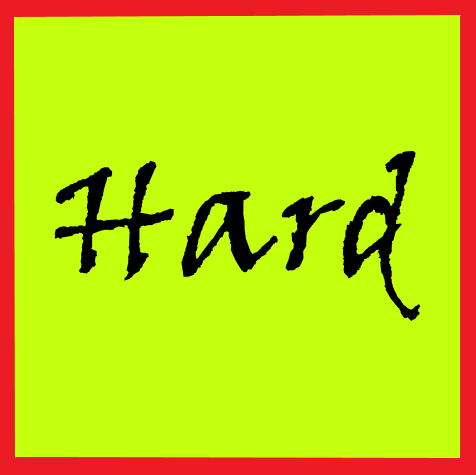
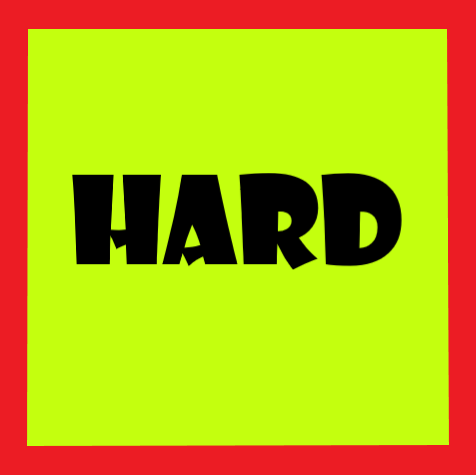
Font update / commands

Changed region(s): [[0.1176, 0.2947, 0.8824, 0.6779], [0.0294, 0.0295, 0.9706, 0.9726]]

diff --git a/index.html b/index.html
@@ -18,6 +18,16 @@
 				<label id="bulletsNum">10</label>
 				<label id="recharge">Press 'R' to recharge</label>
 			</form>
+			<div id="Instructions">
+				<p>
+					W: move forward <br>
+					S: move backward <br>
+					D: turn right <br>
+					A: turn left <br>
+					R: recharge <br>
+					Space bar: shoot
+				</p>
+			</div>
 			<div id="Countdown"></div>
 			<img id="title" src="img/title.png"></img>
 			<img id="GameOverImage" src="img/gameOverImage.png"></img>
@@ -30,6 +40,7 @@
 			<img id="playLevelButton" src="img/playLevelButton.png"></img>
 		</div>
 		<script>
+			document.getElementById("Instructions").style.visibility = "visible";
 			document.getElementById("title").style.visibility = "visible";
 			document.getElementById("Menu").style.visibility = "visible";
 			document.getElementById("GameOverImage").style.visibility = "hidden";

diff --git a/scripts/init.js b/scripts/init.js
@@ -423,6 +423,7 @@ function changeScene(){
 	scene.remove(plane2sel);
 	scene.remove(plane3sel);
 	scene.remove(planeStart);
+	document.getElementById("Instructions").style.visibility = "hidden";
 	document.getElementById("title").style.visibility = "hidden";
 	document.getElementById("Menu").style.visibility="hidden";
 	document.getElementById("level").style.visibility="visible";

diff --git a/css/style.css b/css/style.css
@@ -122,6 +122,15 @@
 	left: 3%;
 }
 
+#Instructions{
+	position: absolute;
+	font-size: 20px;
+	font-family: "Showcard Gothic";
+	color: #FF33FF;
+	top: 4%;
+	left: 4%;
+}
+
 #recharge{
 	position: absolute;
 	font-size: 20px;
